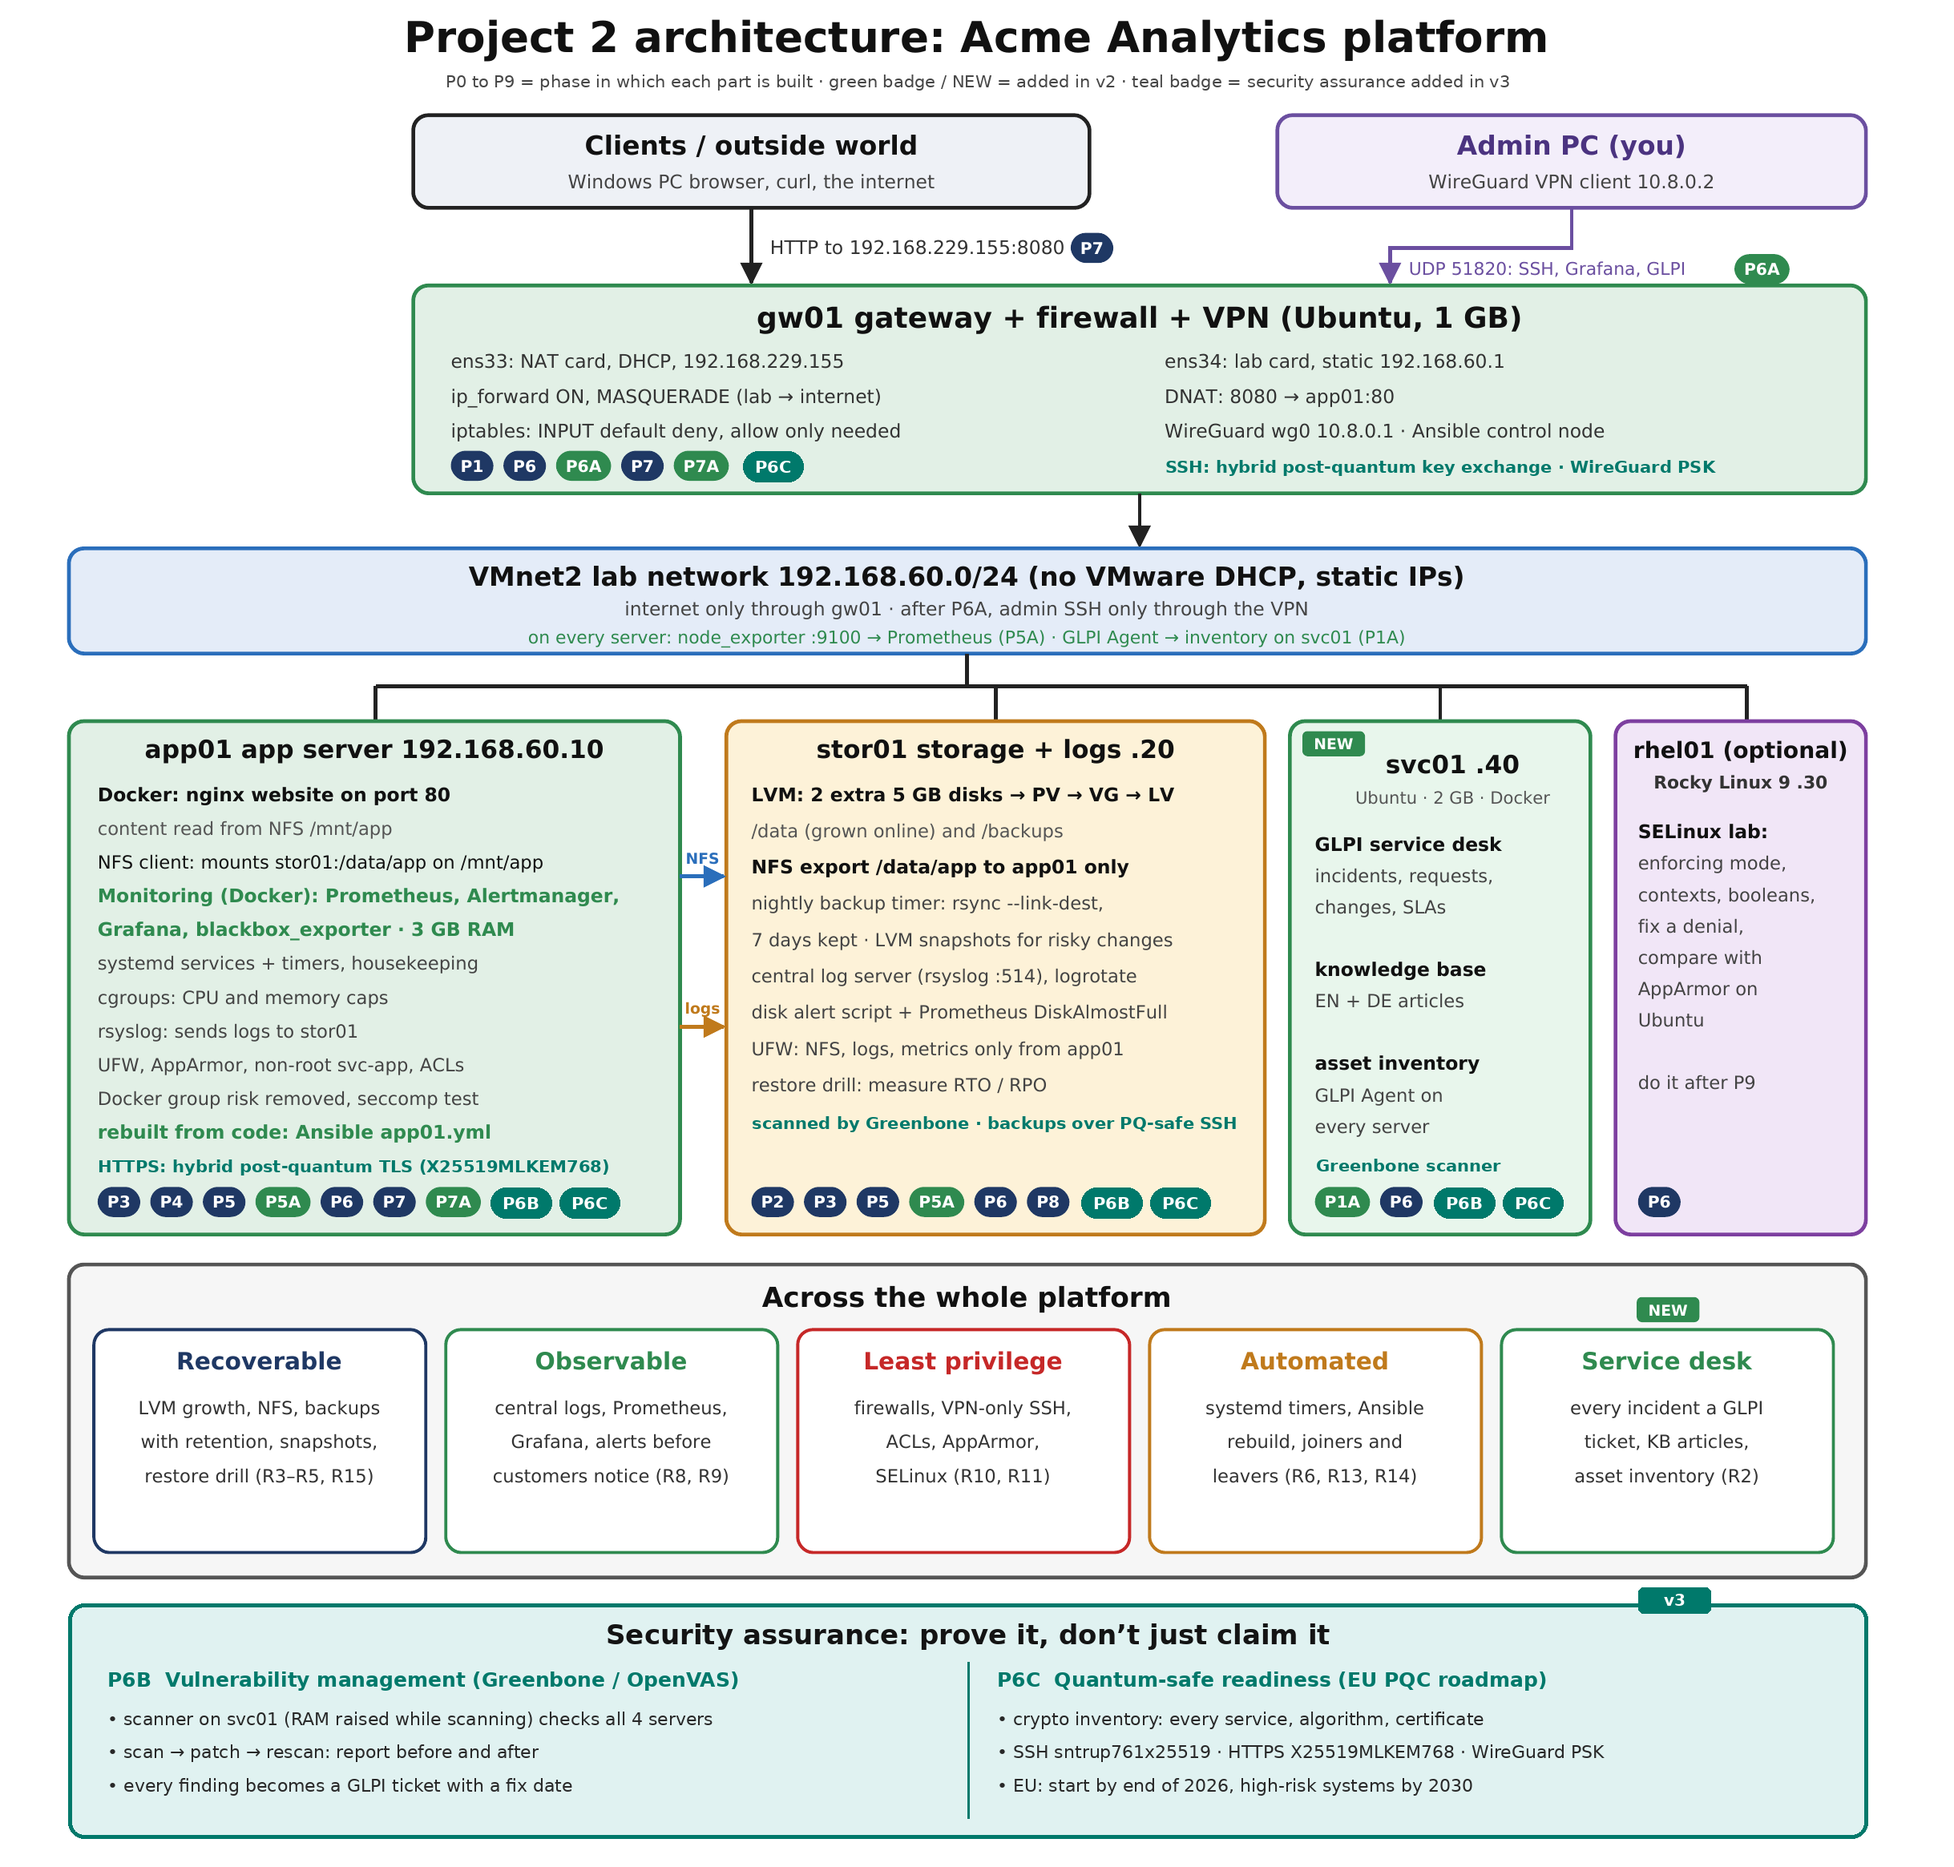
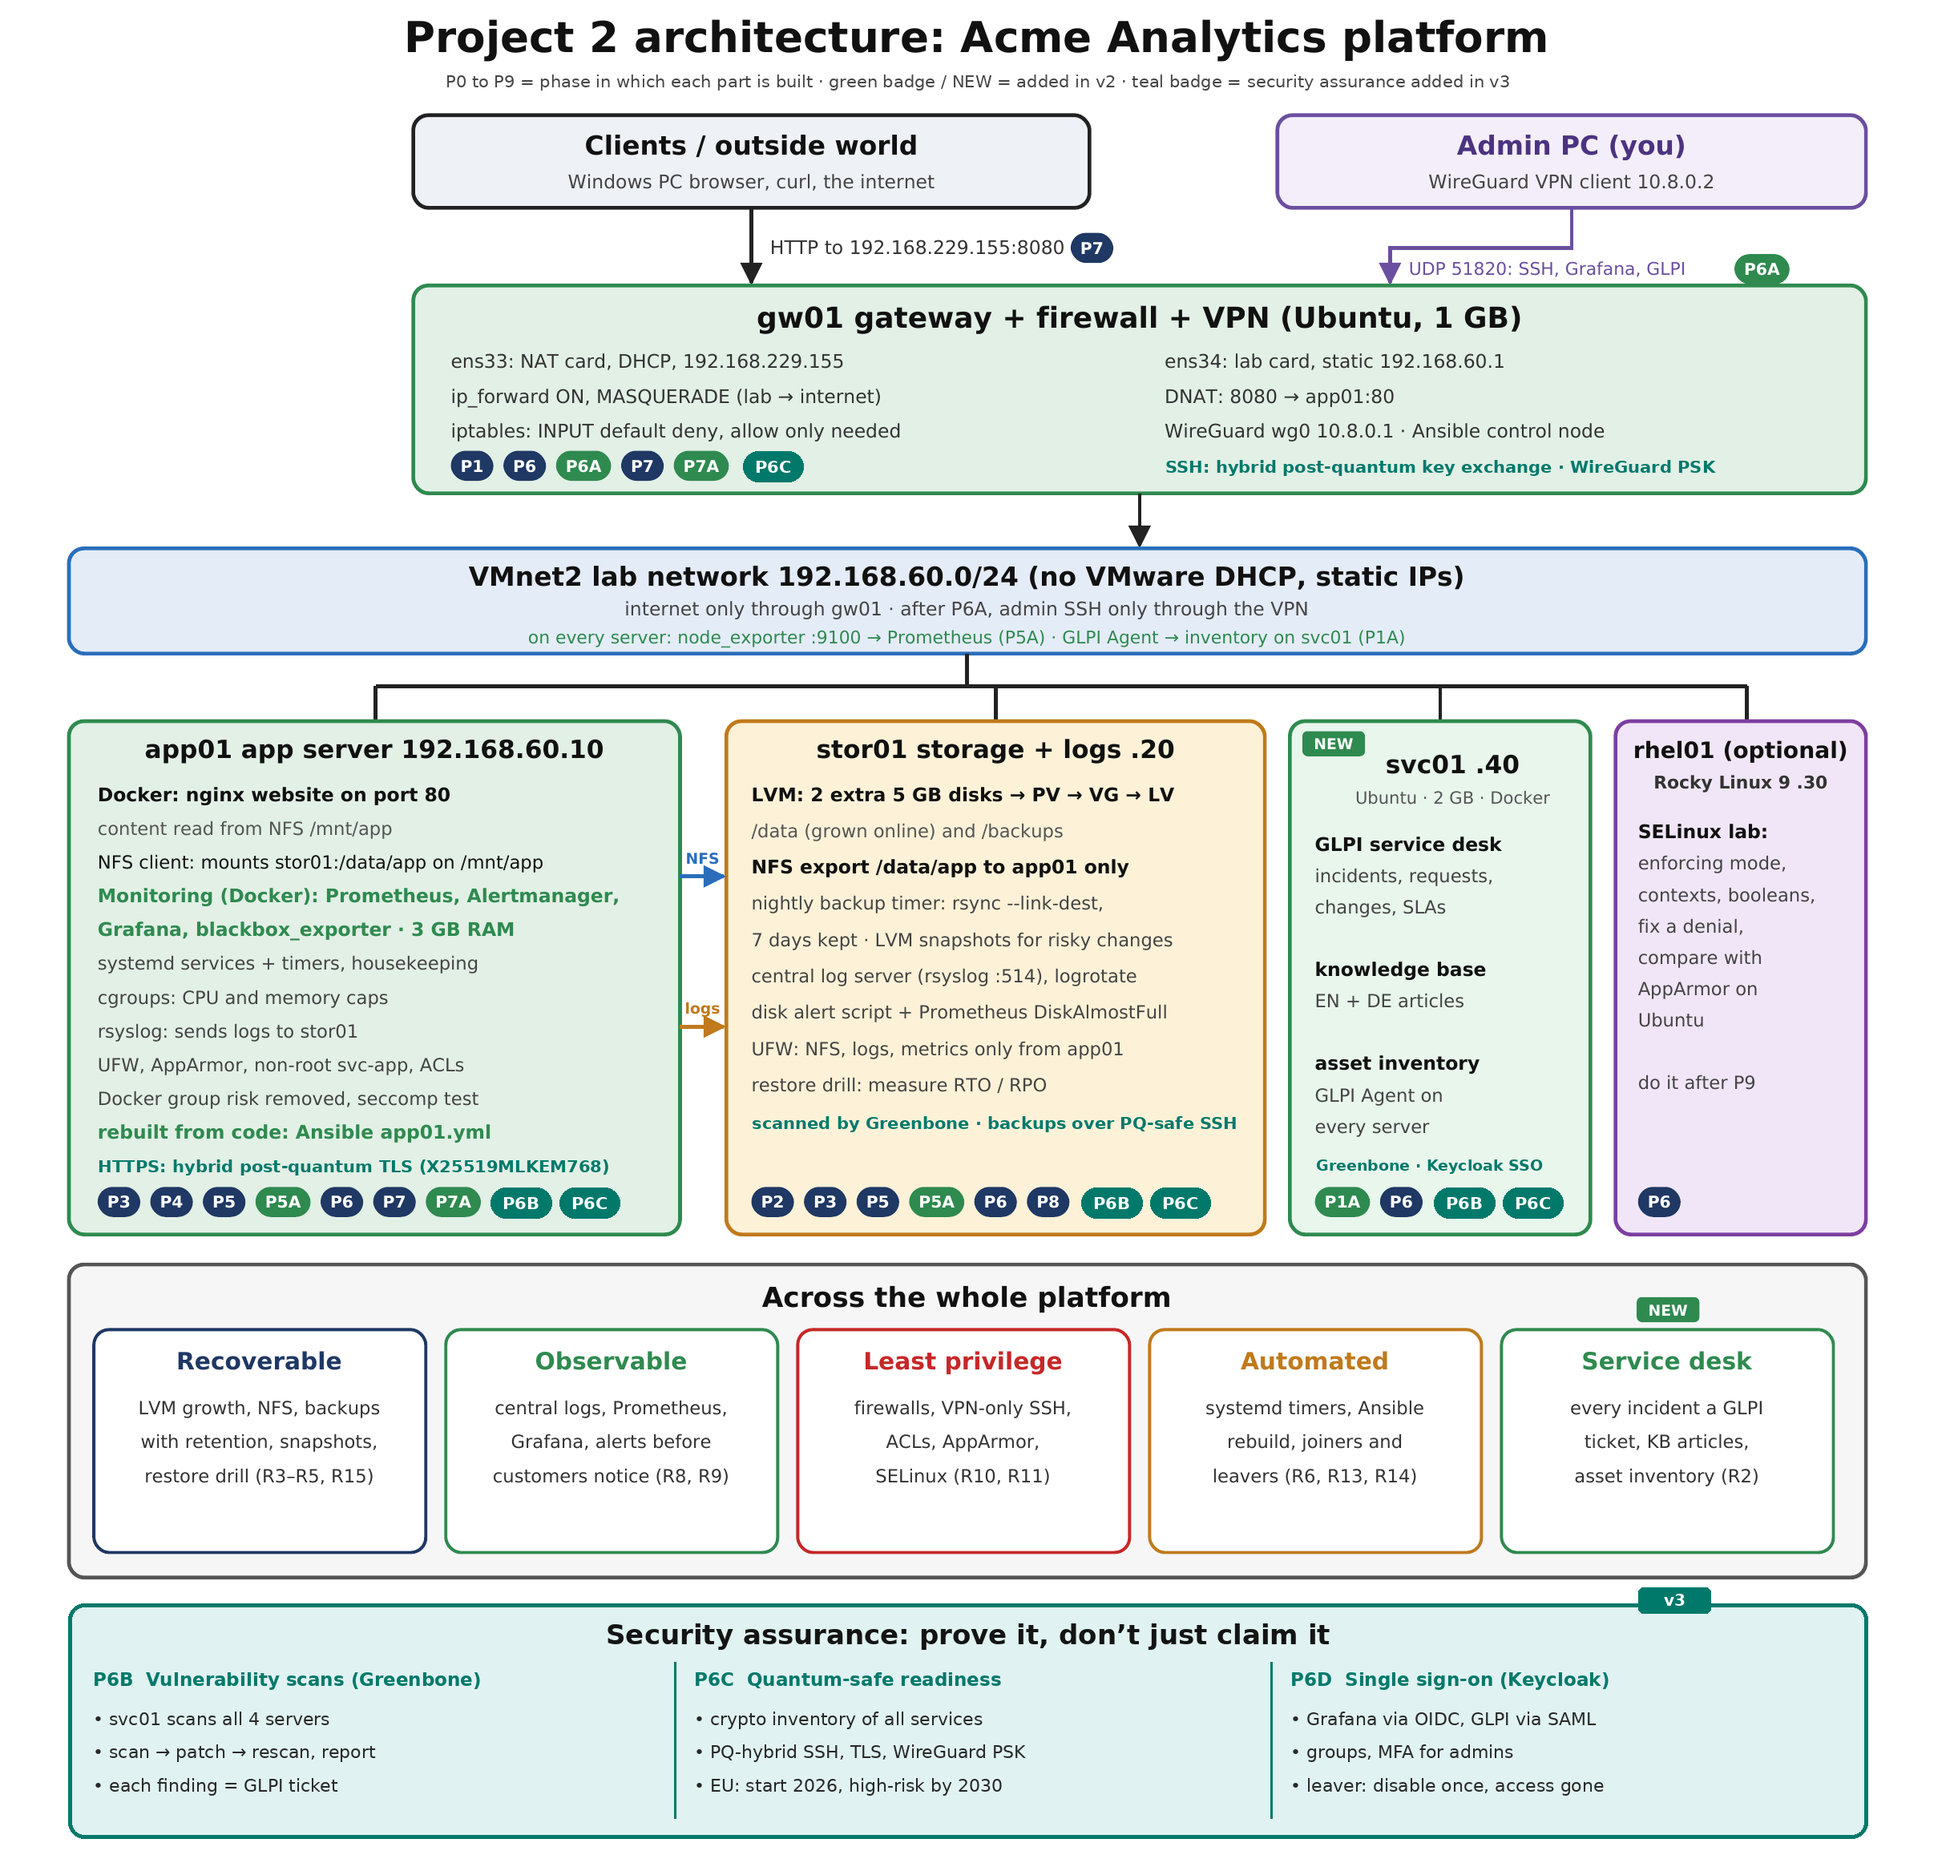
Plan Phase 6D: single sign-on with Keycloak (OIDC, SAML, MFA, leaver test)
Claude-Session: https://claude.ai/code/session_01KB7TyAvn9fTgESUz15vokF

Changed region(s): [[0.0623, 0.8961, 0.8105, 0.9579], [0.6858, 0.618, 0.7793, 0.6489]]

diff --git a/docs/phases/phase-6d-single-sign-on.md b/docs/phases/phase-6d-single-sign-on.md
@@ -1,0 +1,43 @@
+# Phase 6D: Single sign-on with Keycloak (identity and access management)
+
+> **Status: planned.** Runs after Phase 6C. Uses the hardened servers, the VPN and the certificates from 6C.
+
+## The problem (plain words)
+
+Acme's admins have a separate password for every tool: Grafana, GLPI, the servers. When someone leaves the company, nobody is sure every account was closed. The customer's security questionnaire asks: *"Do you use central login (SSO), and how do you remove access when an employee leaves?"*
+
+**Single sign-on (SSO)** means one central login service. You log in once and every tool trusts it. Disable the person in one place and all access is gone. Companies use Microsoft Entra ID, Okta, Airlock IAM or **Keycloak**, the free open-source one used by many German companies and public bodies.
+
+## What I build
+
+| Part | Where | What it does |
+|---|---|---|
+| Keycloak (Docker) | svc01 | Central login service with realm `acme`, users and groups (`admins`, `support`) |
+| Grafana login via OIDC | app01 | Grafana sends users to Keycloak; group `admins` becomes Grafana Admin |
+| GLPI login via SAML | svc01 | Second protocol: GLPI trusts Keycloak through a SAML plugin |
+| HTTPS with own CA | svc01 | Keycloak only reachable over HTTPS, certificate from the internal CA (links to 6C) |
+| Joiner / leaver | Keycloak + Ansible (7A) | Disable a user once → login to Grafana and GLPI fails everywhere |
+
+svc01 has 2 GB RAM. Keycloak and Greenbone need memory, so raise svc01 to 4 GB or don't run a Greenbone scan at the same time.
+
+## Steps
+
+| Step | What I do | Evidence |
+|---|---|---|
+| 6D.1 | Run Keycloak in Docker on svc01 behind HTTPS | Keycloak admin page over HTTPS |
+| 6D.2 | Create realm `acme`, groups `admins` and `support`, two test users, password policy and MFA (TOTP) for admins | Screenshot of realm settings |
+| 6D.3 | Connect Grafana with **OIDC** (OpenID Connect); map group → Grafana role | Login redirect to Keycloak, user lands with the right role |
+| 6D.4 | Connect GLPI with **SAML** | Login to GLPI through Keycloak |
+| 6D.5 | Decode a token (JWT) and a SAML assertion and explain each field | Annotated screenshot |
+| 6D.6 | **Leaver test:** disable a user in Keycloak → access to both tools stops; measure the time | Results table |
+| 6D.7 | Break and fix: wrong redirect URI, clock skew between servers, expired certificate | Three GLPI incident tickets with cause and fix |
+
+## Key terms (plain words)
+
+- **IAM (Identity and Access Management):** managing who you are (identity) and what you may do (access).
+- **SSO (single sign-on):** log in once, use every tool.
+- **OIDC (OpenID Connect):** modern login protocol built on OAuth 2.0, used by web apps. It carries identity in a token (JWT).
+- **OAuth 2.0:** the standard for giving an app limited access without sharing your password.
+- **SAML:** older XML-based login protocol, still very common in enterprises.
+- **MFA:** a second factor besides the password, e.g. a code from an app.
+- **Joiner / mover / leaver:** the process of giving, changing and removing access when people join, change role or leave.

diff --git a/README.md b/README.md
@@ -51,6 +51,7 @@ My job as junior platform engineer: build a platform that is **recoverable, obse
 | 6A | WireGuard VPN | ⏳ | |
 | 6B | Vulnerability management: Greenbone/OpenVAS scan → patch → rescan | ⏳ | |
 | 6C | Quantum-safe readiness: crypto inventory, hybrid post-quantum SSH and TLS, migration plan | ⏳ | [Plan](docs/phases/phase-6c-quantum-safe-readiness.md) |
+| 6D | Single sign-on with Keycloak: OIDC (Grafana), SAML (GLPI), MFA, leaver test | ⏳ | [Plan](docs/phases/phase-6d-single-sign-on.md) |
 | 7 | Publish the web service (DNAT) | ⏳ | |
 | 7A | Ansible: rebuild and joiner/leaver | ⏳ | |
 | 8 | Acceptance tests and disaster drill | ⏳ | |
@@ -73,6 +74,7 @@ My job as junior platform engineer: build a platform that is **recoverable, obse
 | Security hardening and VPN | 6, 6A | Firewall rules, SSH hardening, WireGuard access |
 | Vulnerability management | 6B | Greenbone report before and after patching |
 | Post-quantum readiness (EU roadmap: start by end of 2026) | 6C | Crypto inventory, `X25519MLKEM768` TLS and hybrid SSH proven, migration plan |
+| Identity and access management (SSO) | 6D | Keycloak login for Grafana (OIDC) and GLPI (SAML), MFA, leaver removes all access |
 | Automation | 7A | Ansible rebuild of a server, timed; joiner/leaver playbook |
 | Acceptance tests and disaster drill | 8 | Results table with measured numbers |
 
